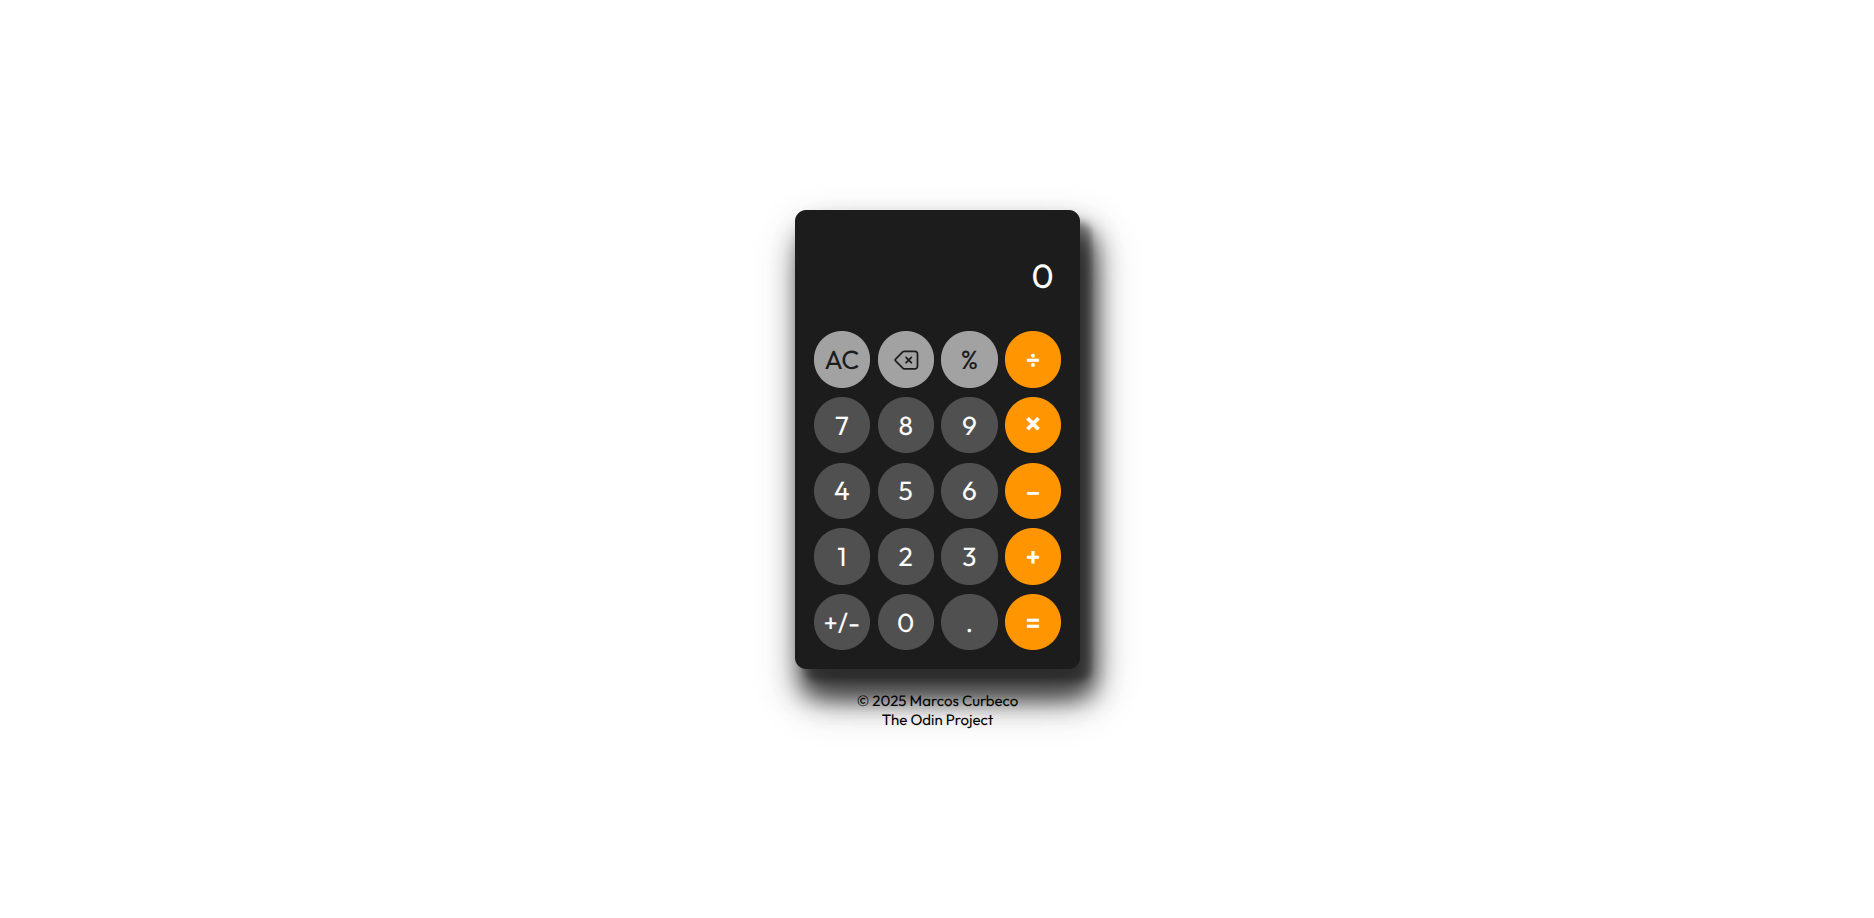
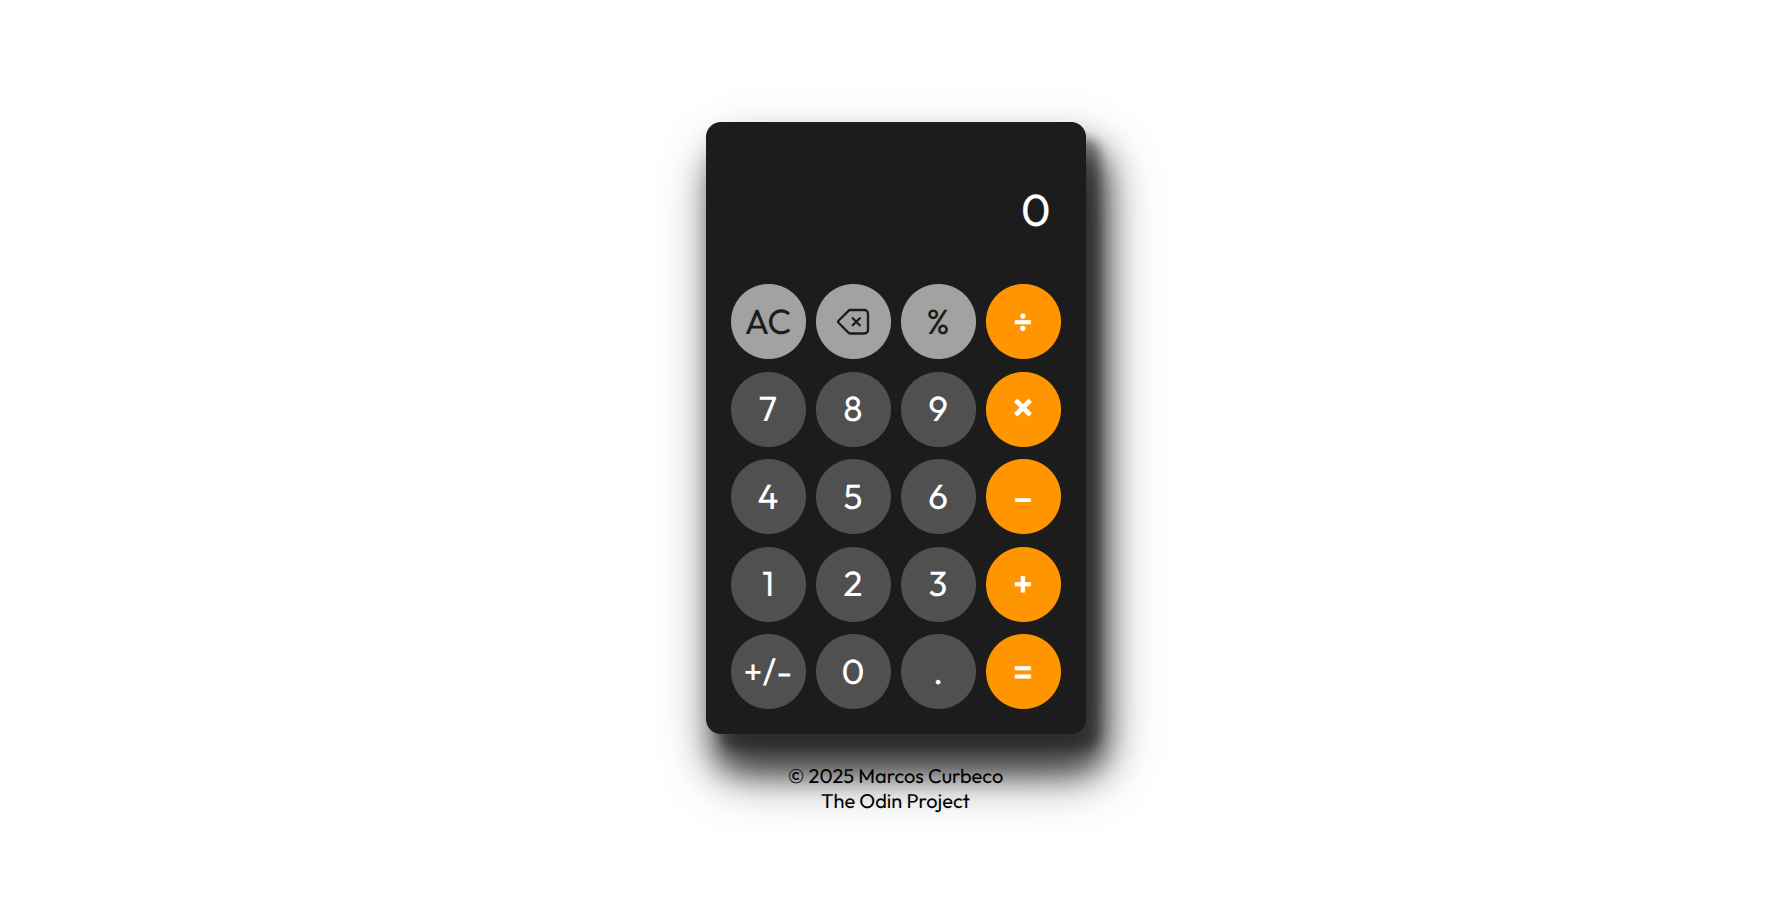
fix: crop images to always have the same height

Changed region(s): [[0.3691, 0.1225, 0.646, 0.8884]]

diff --git a/src/template.html b/src/template.html
@@ -58,23 +58,48 @@
           </div>
           <div class="project-info-container flex">
             <div class="name-links-container">
-              <h3>Project name</h3>
+              <h3>Weather App</h3>
 
               <div class="project-links">
                 <i class="devicon-github-original colored"></i>
 
-                <span class="material-symbols-outlined new-tab-icon">open_in_new</span>
+                <span class="material-symbols-outlined new-tab-icon"
+                  >open_in_new</span
+                >
               </div>
             </div>
             <p class="project-description">
-              Short description of the project. Just a couple sentences will do.
+              A weather app built with the Visual Crossing API to practice
+              working with APIs, promises, and async/await in JavaScript.
+            </p>
+          </div>
+        </div>
+        <div class="project-card flex">
+          <div class="project-img-container">
+            <img src="project-images/todo-list-cropped.png" alt="weather app project" />
+          </div>
+          <div class="project-info-container flex">
+            <div class="name-links-container">
+              <h3>To-do List</h3>
+
+              <div class="project-links">
+                <i class="devicon-github-original colored"></i>
+
+                <span class="material-symbols-outlined new-tab-icon"
+                  >open_in_new</span
+                >
+              </div>
+            </div>
+            <p class="project-description">
+              A simple and fun web app to help you organize your tasks, set due
+              dates, and stay on top of your day!
             </p>
           </div>
         </div>
         <div class="project-card flex">
           <div class="project-img-container">
             <img
-              src="project-images/weather-app.png"
+              src="project-images/battleship.png"
               alt="weather app project"
             />
           </div>
@@ -85,7 +110,9 @@
               <div class="project-links">
                 <i class="devicon-github-original colored"></i>
 
-                <span class="material-symbols-outlined new-tab-icon">open_in_new</span>
+                <span class="material-symbols-outlined new-tab-icon"
+                  >open_in_new</span
+                >
               </div>
             </div>
             <p class="project-description">
@@ -96,7 +123,7 @@
         <div class="project-card flex">
           <div class="project-img-container">
             <img
-              src="project-images/weather-app.png"
+              src="project-images/tic-tac-toe.png"
               alt="weather app project"
             />
           </div>
@@ -107,7 +134,9 @@
               <div class="project-links">
                 <i class="devicon-github-original colored"></i>
 
-                <span class="material-symbols-outlined new-tab-icon">open_in_new</span>
+                <span class="material-symbols-outlined new-tab-icon"
+                  >open_in_new</span
+                >
               </div>
             </div>
             <p class="project-description">
@@ -118,22 +147,50 @@
         <div class="project-card flex">
           <div class="project-img-container">
             <img
-              src="project-images/weather-app.png"
+              src="project-images/calculator.png"
               alt="weather app project"
             />
           </div>
           <div class="project-info-container flex">
             <div class="name-links-container">
-              <h3>Project name</h3>
+              <h3>Weather App</h3>
 
               <div class="project-links">
                 <i class="devicon-github-original colored"></i>
 
-                <span class="material-symbols-outlined new-tab-icon">open_in_new</span>
+                <span class="material-symbols-outlined new-tab-icon"
+                  >open_in_new</span
+                >
               </div>
             </div>
             <p class="project-description">
-              Short description of the project. Just a couple sentences will do.
+              A weather app built with the Visual Crossing API to practice
+              working with APIs, promises, and async/await in JavaScript.
+            </p>
+          </div>
+        </div>
+        <div class="project-card flex">
+          <div class="project-img-container">
+            <img
+              src="project-images/etch-et-sketch.png"
+              alt="weather app project"
+            />
+          </div>
+          <div class="project-info-container flex">
+            <div class="name-links-container">
+              <h3>Weather App</h3>
+
+              <div class="project-links">
+                <i class="devicon-github-original colored"></i>
+
+                <span class="material-symbols-outlined new-tab-icon"
+                  >open_in_new</span
+                >
+              </div>
+            </div>
+            <p class="project-description">
+              A weather app built with the Visual Crossing API to practice
+              working with APIs, promises, and async/await in JavaScript.
             </p>
           </div>
         </div>
@@ -148,7 +205,7 @@
         </p>
         <p>1234 Random Road Random Town, California 12345</p>
         <div>
-        <span class="material-symbols-outlined">call</span>
+          <span class="material-symbols-outlined">call</span>
           <p>555-555-5555</p>
         </div>
         <div>

diff --git a/src/styles.css b/src/styles.css
@@ -161,16 +161,36 @@ main h2 {
   display: grid;
   grid-template-columns: repeat(auto-fit, minmax(300px, 1fr));
   place-content: center;
-  gap: 20px;
+  gap: 40px;
 }
 
 .project-card {
   box-shadow: rgba(0, 0, 0, 0.35) 0px 5px 15px;
+  min-height: 450px;
 }
 
+.project-img-container {
+ flex: 1;
+}
+
+.project-img-container img {
+  height: 100%;
+  aspect-ratio: 4/5;
+  object-fit: cover;
+}
+
+/* I'm trying to make all cards the same height.
+They are equal height when they are in the same row,
+but not when they wrap. */
+/* I'm also trying to make all images inside the cards
+equal height */
+/* If I make the cards fixed height, it has problems with
+auto-fit */
+
 .project-info-container {
+  height: 180px;
   gap: 8px;
-  padding: 12px;
+  padding: 16px;
 }
 
 .name-links-container {
@@ -181,7 +201,7 @@ main h2 {
 .project-links {
   display: flex;
   align-items: center;
-  gap: 8px;
+  gap: 16px;
 }
 
 .project-links, .new-tab-icon {
